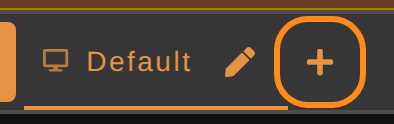
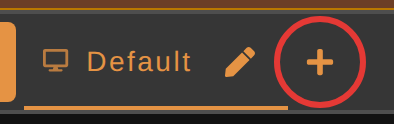
feat(web): rework slides 2-7 and capture the dialogs behind them
Slide 1's contents list and slide 3's heading wore fa-share-nodes, which
this FontAwesome build does not have, so both rendered as a blank box. The
app itself uses fa-share-alt; so does the deck now.

Slide 2: the callout says the one thing and stops. The per-kind tab
captures are dropped — the glyph the tab bar wears carries it. Tab settings
now lists what it actually does: rename, send to the cloud, download back
to local, remove from the cloud, hide, share, delete. The + button is
ringed in red.

Slide 3: loses the preamble, gains the share modal itself.

Slide 4: gains the account panel.

Slide 5: the backlog warning takes the full width, and the slide finally
says where the two controls live — under Satisfaction, in the Storage
column. The sidebar backlog crop is gone; it never read as a warning, only
as the word "Ungrouped" blown up.

Slide 6: search on "copper" rather than an exact item name, so the results
show three factories and two parts, which is what the feature is for.

Slide 7: the header says exported and imported, as files or the clipboard,
and the Export dialog sits above it.

Claude-Session: https://claude.ai/code/session_015PTSRZn8YB7LHuoRHXo3Tt

Changed region(s): [[0.6701, 0.121, 0.9442, 0.871]]

diff --git a/web/src/components/SplashV7.vue b/web/src/components/SplashV7.vue
@@ -97,27 +97,16 @@
           >
             <h3 class="text-h6 mb-1 font-weight-bold">At no point is a cloud account mandatory</h3>
             <p class="mb-0">
-              The planner works <b>100% without an account</b>, exactly as it always has. Everything
-              on this slide is opt-in.
+              The planner works <b>100% without an account</b>, just as it always has done.
             </p>
           </v-alert>
-          <p class="mb-4">
-            Each tab wears its kind in the tab bar, and the <b>+</b> button now asks which kind you
-            want rather than silently making a local one.
-          </p>
+          <p class="mb-4">There are three kinds of tab, and you pick which you want.</p>
 
           <div v-for="kind in tabKinds" :key="kind.key" class="mb-4">
             <h3 class="section-heading d-flex align-center ga-3 mb-2">
-              <!-- The capture of the real tab where there is one, the bare glyph where there
-                   isn't: either way the heading carries what the tab bar shows. -->
-              <v-img
-                v-if="kind.shot"
-                :alt="kind.alt"
-                class="tab-shot rounded"
-                :src="kind.image"
-                :width="kind.width"
-              />
-              <i v-else class="tab-glyph" :class="kind.icon" />
+              <!-- The glyph the tab bar itself wears, so the heading and the tab on screen are
+                   recognisably the same thing. -->
+              <i class="tab-glyph" :class="kind.icon" />
               <span>{{ kind.label }}</span>
             </h3>
             <p class="mb-0">{{ kind.blurb }}</p>
@@ -137,9 +126,10 @@
             :src="shots.plusButton"
           />
           <p class="mb-0">
-            <b>Local is still the default.</b> The pencil on a tab opens <b>tab settings</b>, where
-            you rename it, send it to the cloud, bring it back, hide it or delete it — and tabs drag
-            into whatever order you like, with your synced ones following your account.
+            The pencil on a tab opens <b>tab settings</b>, where you rename it, send it to the
+            cloud, download it back to local, remove it from the cloud, hide it, share it and
+            delete it. Tabs drag into whatever order you like, and your synced ones keep that
+            order on your account.
           </p>
         </div>
 
@@ -147,12 +137,8 @@
              the two kinds of link side by side, because they are what people confuse. -->
         <div v-if="currentSlide === 2">
           <h2 class="text-h5 text-center mb-2">
-            <i class="fas fa-share-nodes" /><span class="ml-2">Tab sharing</span>
+            <i class="fas fa-share-alt" /><span class="ml-2">Tab sharing</span>
           </h2>
-          <p class="mb-4">
-            Two ways to hand a plan to somebody else, and they do different things. Both live in the
-            sharing tray, reached from <b>Share Settings</b> in tab settings.
-          </p>
           <v-img
             v-if="hasShareTrayShot"
             alt="The tab sharing tray, offering a snapshot link and an invite link"
@@ -171,7 +157,7 @@
           >
             <b>Unlike local tabs, real-time collaboration does need a cloud account.</b> It is what
             lets the planner tell who may edit a plan and keep everyone's copy of it in step.
-            Snapshot links, on the left, need no account at all.
+            Snapshot links need no account at all.
           </v-alert>
 
           <!-- Left to right in the order the tray itself puts them. -->
@@ -282,24 +268,13 @@
             the belt and stall the buildings making it. The planner now says so, in the sidebar and
             on the item itself:
           </p>
-          <v-row class="mb-2" no-gutters>
-            <v-col class="pr-md-3" cols="12" md="6">
-              <v-img
-                v-if="hasBacklogSidebarShot"
-                alt="The sidebar warning that a factory will cause a backlog"
-                class="rounded"
-                :src="shots.backlogSidebar"
-              />
-            </v-col>
-            <v-col class="pl-md-3" cols="12" md="6">
-              <v-img
-                v-if="hasBacklogSatisfactionShot"
-                alt="The Will cause backlog warning on an item's satisfaction row"
-                class="rounded"
-                :src="shots.backlogSatisfaction"
-              />
-            </v-col>
-          </v-row>
+          <v-img
+            v-if="hasBacklogSatisfactionShot"
+            alt="The Will cause backlog warning on an item's satisfaction row"
+            class="mb-3 mx-auto rounded"
+            max-width="1000"
+            :src="shots.backlogSatisfaction"
+          />
 
           <v-divider class="my-4" />
 
@@ -326,11 +301,15 @@
             max-width="1000"
             :src="shots.depotAssign"
           />
-          <p class="mb-0">
+          <p class="mb-3">
             <b>An Uploader deliberately changes no number.</b> The Depot is finite storage — it
             fills, then backs up like any other container. Marking an item for it records what you
             are building and what it costs, and leaves the surplus exactly as it is.
           </p>
+          <v-alert density="comfortable" type="info" variant="tonal">
+            <b>Where to set both:</b> under <b>Satisfaction</b> on any factory, in the new
+            <b>Storage</b> column — sinks on the left, Depot Uploaders on the right.
+          </v-alert>
         </div>
 
         <!-- Slide 6: Search, on its own, because it is one of the four. -->
@@ -432,7 +411,14 @@
 
           <v-divider class="my-4" />
 
-          <h3 class="section-heading mb-2">Plans go in and out as files</h3>
+          <h3 class="section-heading mb-2">Plans can be exported and imported as files or the clipboard</h3>
+          <v-img
+            v-if="hasExportShot"
+            alt="The Export plan dialog, offering a file or the clipboard"
+            class="mb-3 mx-auto rounded"
+            max-width="760"
+            :src="shots.exportPlan"
+          />
           <p class="mb-4">
             <b>Copy plan is now Export plan</b>, and asks where the plan should go: save it as a
             JSON file, or copy it to the clipboard. <b>Paste plan is now Import plan</b>, and asks
@@ -526,11 +512,11 @@
     accountPanel: '/assets/changelog/beta7/account-panel.png',
     offline: '/assets/changelog/beta7/offline-switch.png',
     sink: '/assets/changelog/beta7/sink-storage.png',
-    backlogSidebar: '/assets/changelog/beta7/backlog-sidebar.png',
     backlogSatisfaction: '/assets/changelog/beta7/backlog-satisfaction.png',
     depot: '/assets/changelog/beta7/depot-summary.png',
     depotAssign: '/assets/changelog/beta7/depot-assign.png',
     search: '/assets/changelog/beta7/search.png',
+    exportPlan: '/assets/changelog/beta7/export-plan.png',
     customBuildings: '/assets/changelog/beta7/custom-buildings.png',
     materialCosts: '/assets/changelog/beta7/material-costs.png',
     checklist: '/assets/changelog/beta7/checklist.png',
@@ -541,17 +527,17 @@
   // behind its own flag and a slide whose picture has not been taken yet ships as text. Flip one
   // on as its file lands in web/public/assets/changelog/beta7/.
   const hasPlusButtonShot = true
-  const hasShareTrayShot = false
+  const hasShareTrayShot = true
   const hasShareShot = false
   const hasSnapshotShot = false
-  const hasAccountPanelShot = false
+  const hasAccountPanelShot = true
   const hasOfflineShot = false
   const hasSinkShot = true
-  const hasBacklogSidebarShot = true
   const hasBacklogSatisfactionShot = true
   const hasDepotShot = true
   const hasDepotAssignShot = false
   const hasSearchShot = true
+  const hasExportShot = true
   const hasCustomBuildingsShot = true
   const hasMaterialCostsShot = true
   const hasChecklistShot = true
@@ -637,7 +623,7 @@
   const slides = [
     { title: 'The SINKronisation Update', nav: 'Intro', icon: 'fas fa-flag' },
     { title: 'Every tab is local, synced or shared', nav: 'Kinds of tab', icon: 'fas fa-folder-open' },
-    { title: 'Tab sharing', nav: 'Tab sharing', icon: 'fas fa-share-nodes' },
+    { title: 'Tab sharing', nav: 'Tab sharing', icon: 'fas fa-share-alt' },
     { title: 'Manage your plans in the new account panel', nav: 'Your account', icon: 'fas fa-user' },
     { title: 'AWESOME Sinks and the Dimensional Depot', nav: 'Sinks & the Depot', icon: 'fas fa-recycle' },
     { title: 'Search the plan', nav: 'Search', icon: 'fas fa-search' },
@@ -689,7 +675,6 @@
   const tabKinds = [
     {
       key: 'local',
-      shot: false,
       label: 'Local',
       icon: 'fas fa-desktop',
       image: shots.tabLocal,
@@ -700,7 +685,6 @@
     },
     {
       key: 'synced',
-      shot: false,
       label: 'Synced',
       icon: 'fas fa-cloud',
       image: shots.tabSynced,
@@ -711,7 +695,6 @@
     },
     {
       key: 'shared',
-      shot: false,
       label: 'Shared',
       icon: 'fas fa-users',
       image: shots.tabShared,
